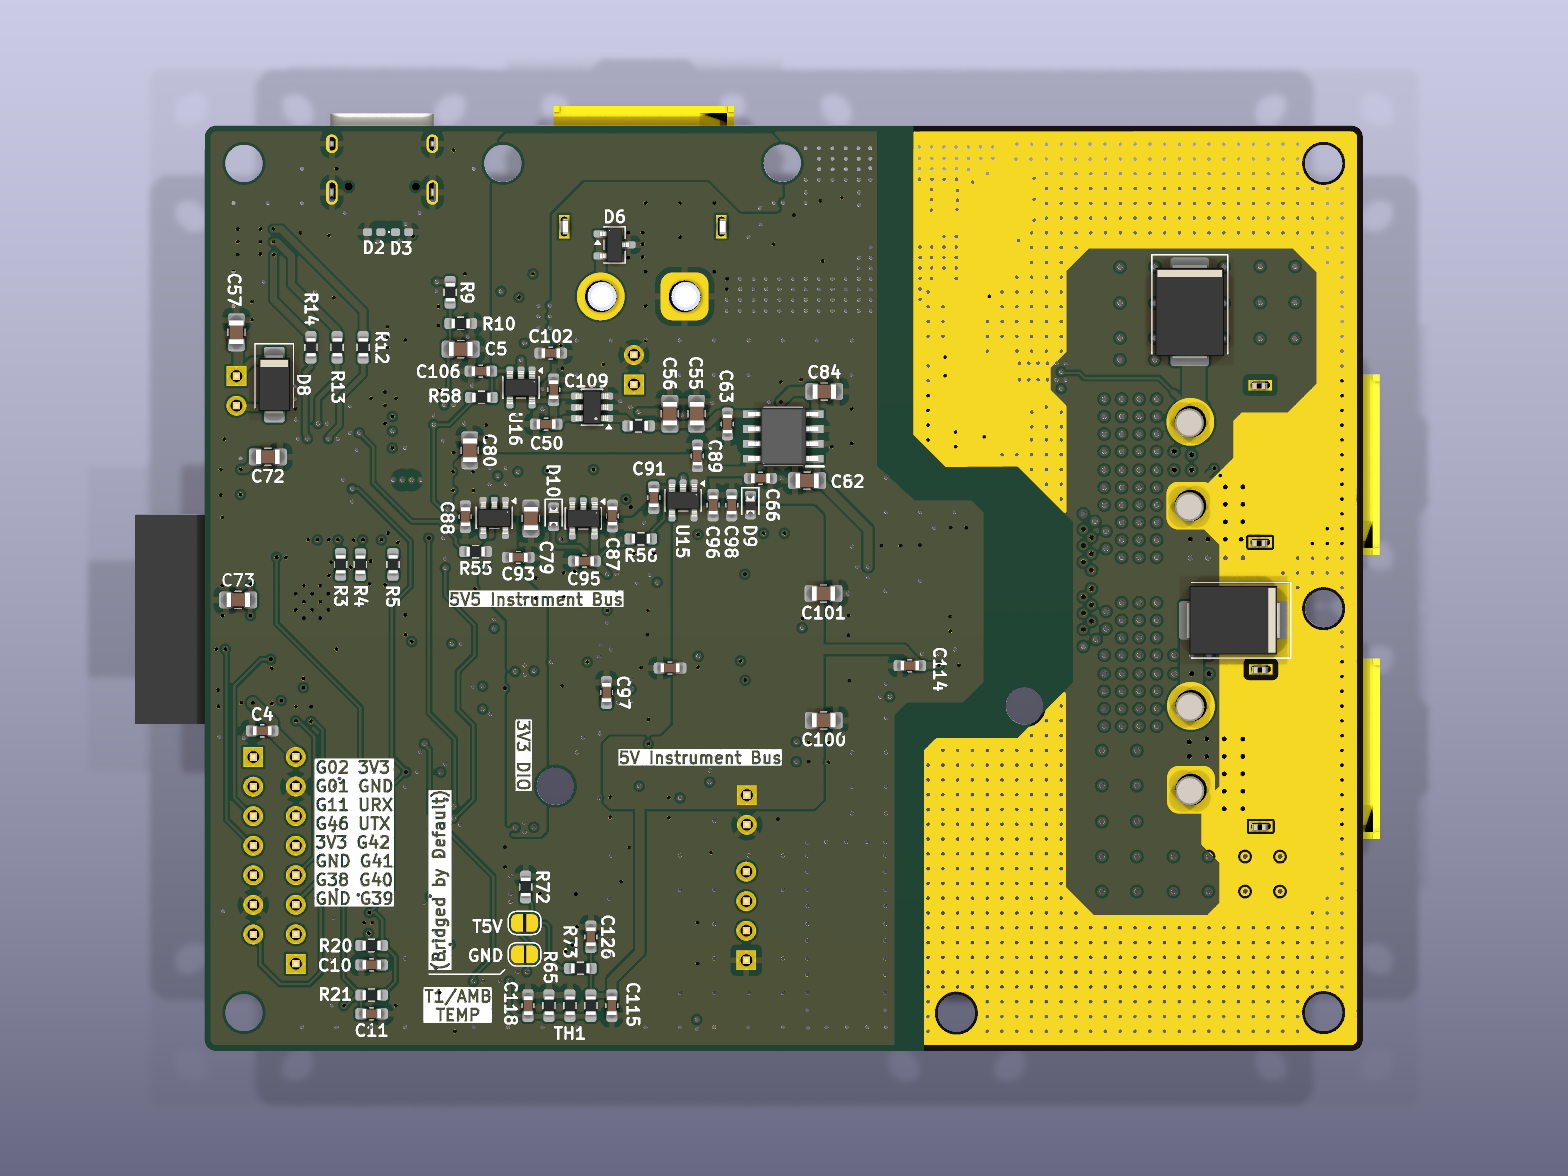
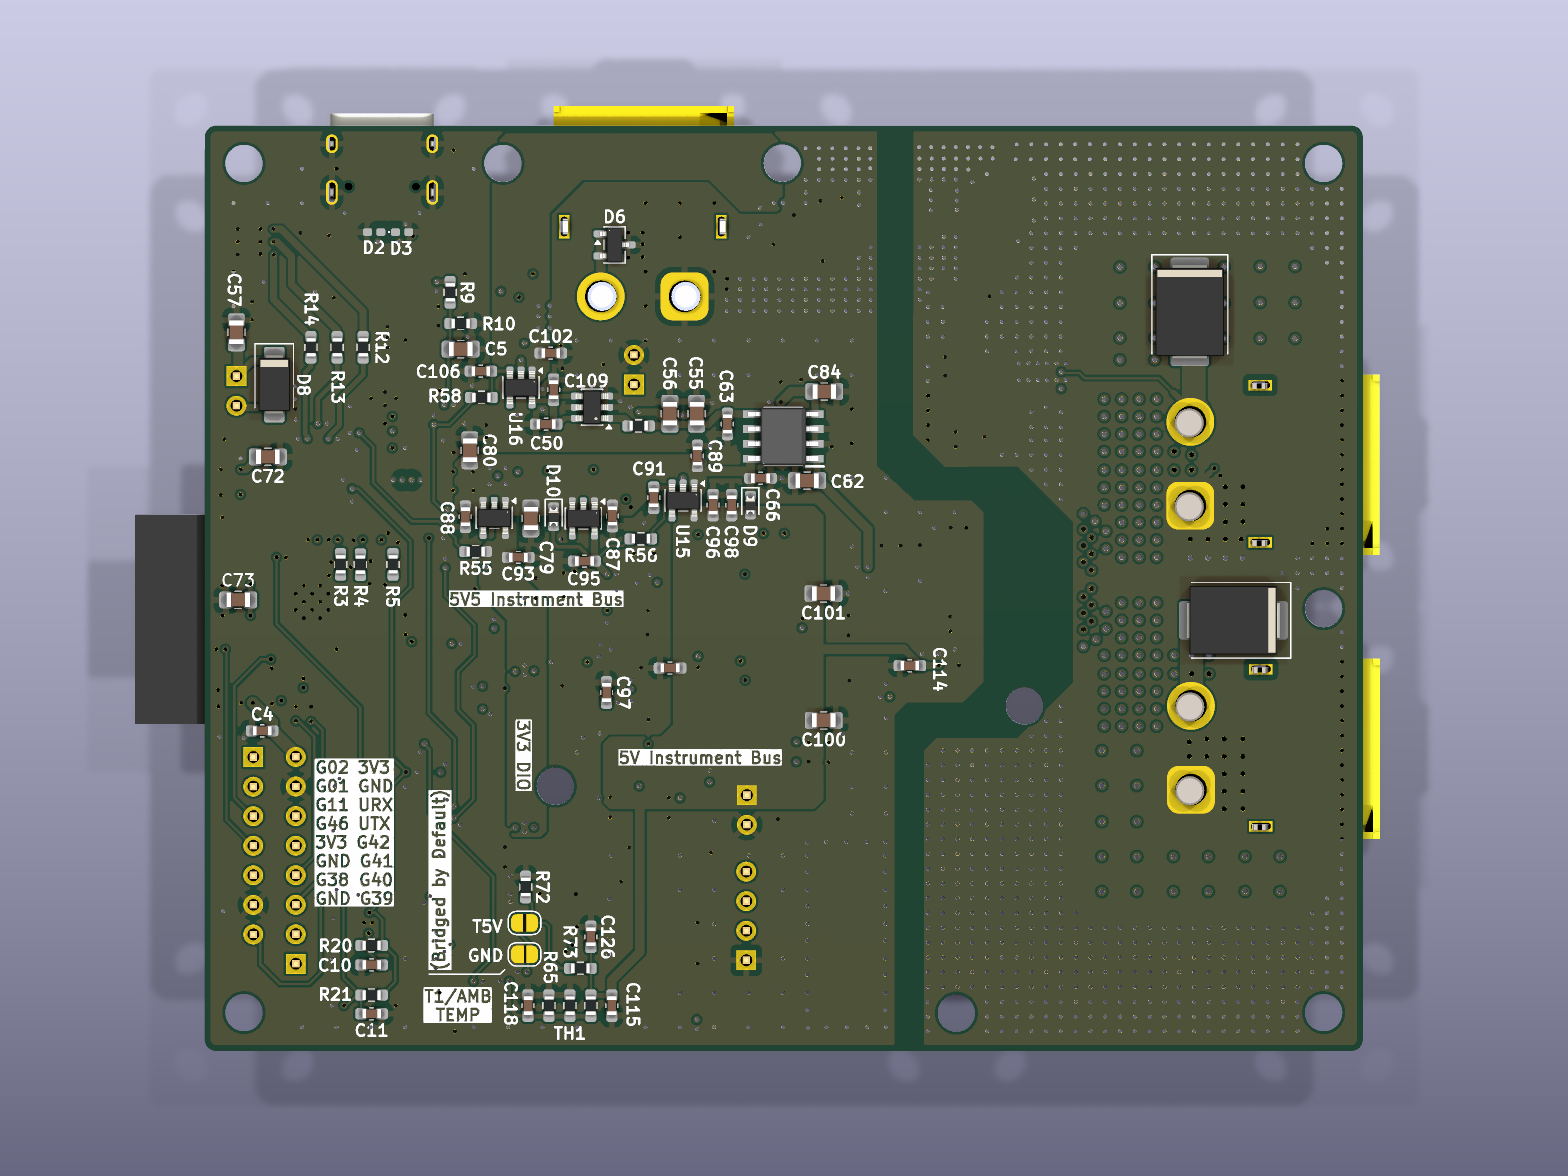
Fix bottom mask.
[KiCad Version: 10.0.4]

Changed region(s): [[0.5625, 0.0918, 0.875, 0.9184]]

diff --git a/README.md b/README.md
@@ -21,7 +21,7 @@
 | **SMD Components** | 244 |
 | **THT Components** | 9 |
 | **Unique Parts** | 72 |
-| **DRC Status** | ⚠️ 26 Errors, 109 Warnings |
+| **DRC Status** | ⚠️ 27 Errors, 106 Warnings |
 | **KiCad Version** | 10.0.4 |
 
 ### 📐 Manufacturing & DRC